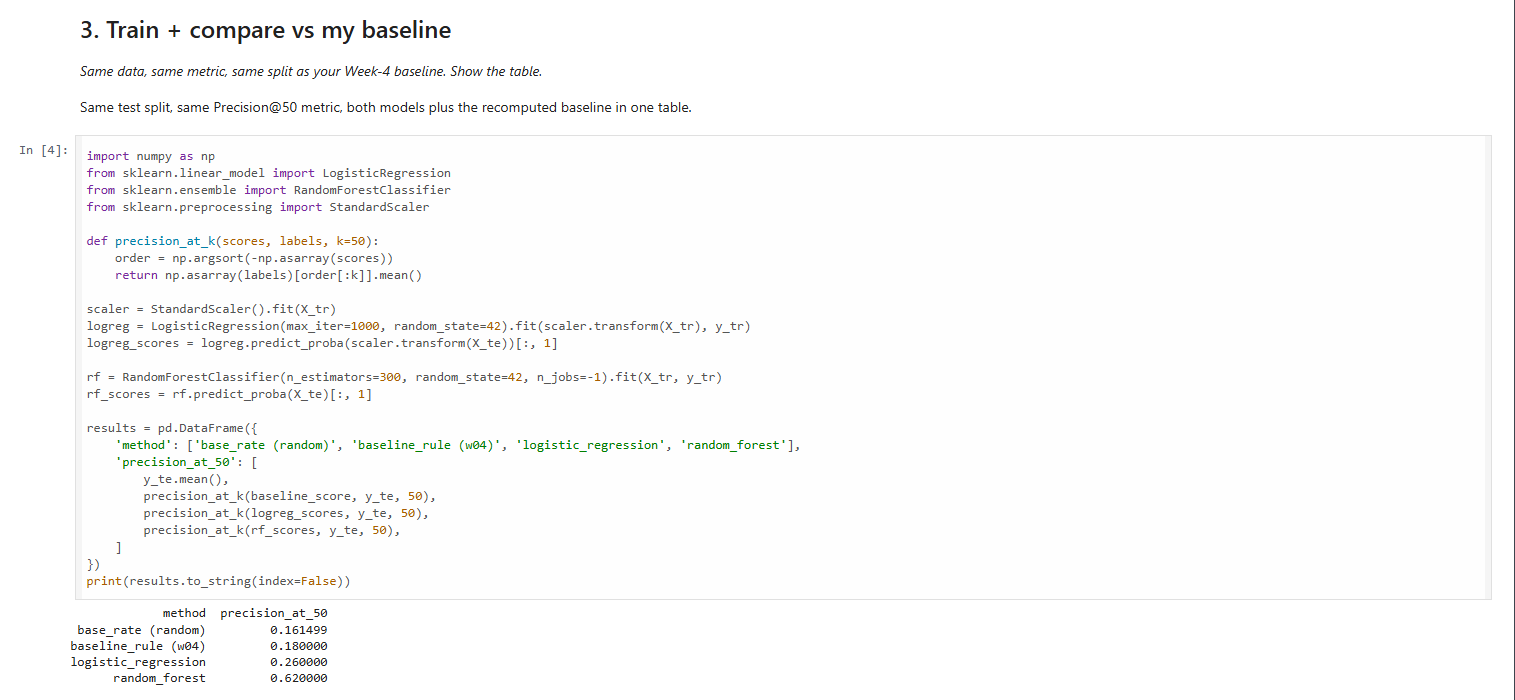
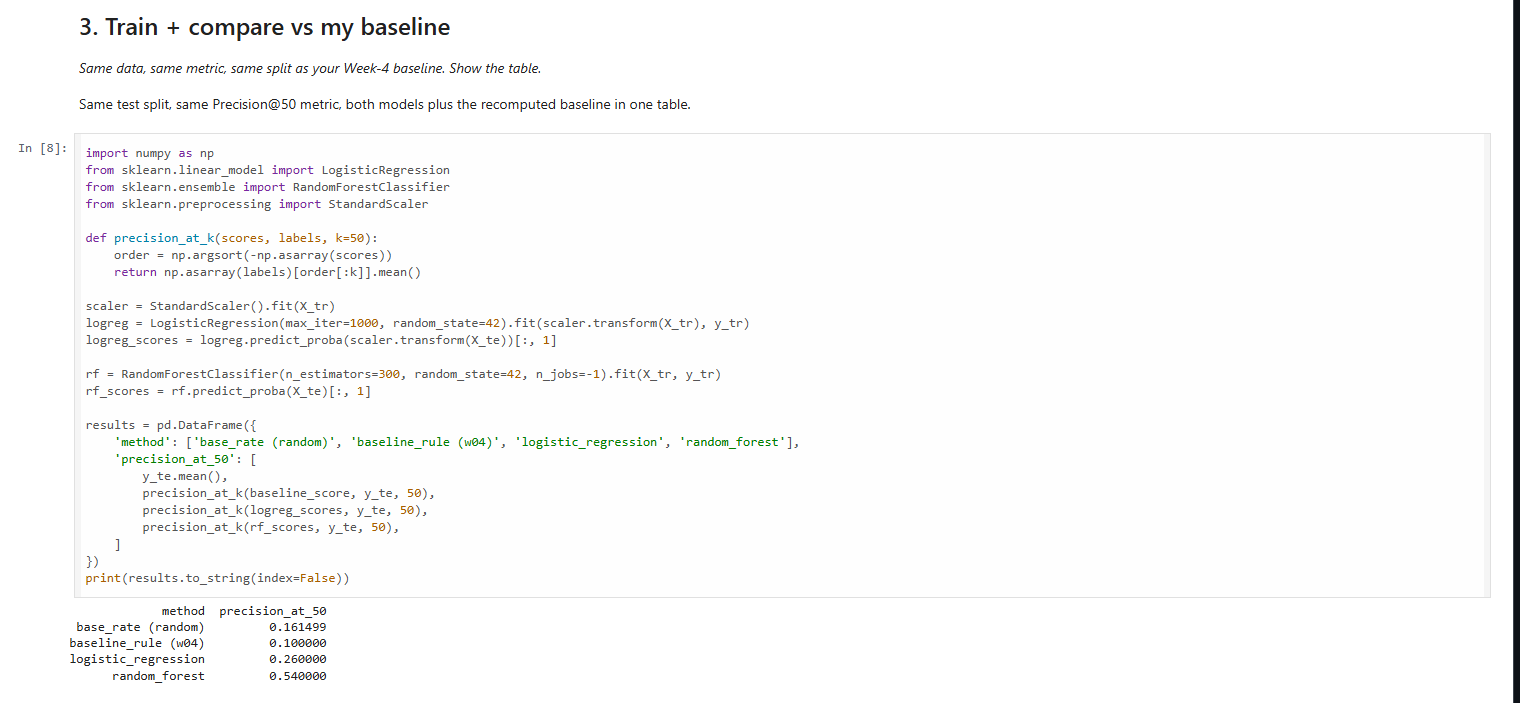
Re-capture the w05 receipt after the pin and ORDER BY fix
The committed screenshot showed 0.180 / 0.620 from a run predating both fixes,
while Case 1 reported 0.540. It now reads 0.161499 / 0.100000 / 0.260000 /
0.540000 - the case and its receipt agree.

diff --git a/work/images/contact-sheet.html b/work/images/contact-sheet.html
@@ -9,30 +9,30 @@ figcaption{font-size:11px;font-weight:600;letter-spacing:.12em;color:#5B6670;pad
 figure svg,figure img{display:block;width:100%;height:auto}
 </style>
 <h1>Image set — contact sheet</h1>
-<p class="sub">One real photo, two real captures (one stale, flagged), three figures, one generated hero texture, one rejected hero.</p>
+<p class="sub">One real photo, two real captures (both matching their cases), three figures, one generated hero texture, one rejected hero.</p>
 <figure data-name="headshot.jpg"><figcaption>REAL PHOTO · About</figcaption><img src="headshot.jpg" alt="REAL PHOTO · About" style="max-width:420px"></figure>
-<figure data-name="capture-w05-results.png"><figcaption>REAL CAPTURE · STALE — pre-pin run, must be re-captured</figcaption><img src="capture-w05-results.png" alt="REAL CAPTURE · STALE — pre-pin run, must be re-captured"></figure>
+<figure data-name="capture-w05-results.png"><figcaption>REAL CAPTURE · Case 1 receipt — matches the case (0.540)</figcaption><img src="capture-w05-results.png" alt="REAL CAPTURE · Case 1 receipt — matches the case (0.540)"></figure>
 <figure data-name="capture-w03-leakage.png"><figcaption>REAL CAPTURE · Case 2 receipt — matches the case</figcaption><img src="capture-w03-leakage.png" alt="REAL CAPTURE · Case 2 receipt — matches the case"></figure>
-<figure data-name="fig-queue-precision.svg"><figcaption>KEEPER · fig-queue-precision.svg</figcaption><svg xmlns="http://www.w3.org/2000/svg" viewBox="0 0 760 400" data-w="760" data-h="400" role="img" aria-label="Precision at 50 on one split: random forest 0.500, logistic regression 0.260, hand-written rule 0.200, random order 0.161. Unstable across seeds.">
-<title>Precision at 50 on one split: random forest 0.500, logistic regression 0.260, hand-written rule 0.200, random order 0.161. Unstable across seeds.</title>
+<figure data-name="fig-queue-precision.svg"><figcaption>KEEPER · fig-queue-precision.svg</figcaption><svg xmlns="http://www.w3.org/2000/svg" viewBox="0 0 760 400" data-w="760" data-h="400" role="img" aria-label="Precision at 50 on one split: random forest 0.540, logistic regression 0.260, hand-written rule 0.100, random order 0.161. Unstable across seeds.">
+<title>Precision at 50 on one split: random forest 0.540, logistic regression 0.260, hand-written rule 0.100, random order 0.161. Unstable across seeds.</title>
 <rect width="760" height="400" fill="#FBFAF7"/>
 <text x="32" y="44" font-family="'Space Grotesk','Inter',system-ui,-apple-system,'Segoe UI',sans-serif" font-size="21" font-weight="600" letter-spacing="-0.3" fill="#14161A">The number that prompted the audit</text>
-<text x="32" y="66" font-family="'Inter',system-ui,-apple-system,'Segoe UI',sans-serif" font-size="12.5" fill="#5B6670">Precision@50 · ONE split, seed 42 · not the result I stand behind</text>
+<text x="32" y="66" font-family="'Inter',system-ui,-apple-system,'Segoe UI',sans-serif" font-size="12.5" fill="#5B6670">Precision@50 · ONE split, seed 42, nine clients on the test side</text>
 <text x="198" y="138.0" text-anchor="end" font-family="'Inter',system-ui,-apple-system,'Segoe UI',sans-serif" font-size="13.5" font-weight="400" fill="#5B6670">Random order</text>
 <rect x="214" y="118" width="111.8" height="30" rx="4" fill="#2F4858"/>
 <text x="337.8" y="138.0" font-family="'Space Grotesk','Inter',system-ui,-apple-system,'Segoe UI',sans-serif" font-size="14.5" font-weight="600" fill="#14161A">0.161</text>
 <text x="198" y="188.0" text-anchor="end" font-family="'Inter',system-ui,-apple-system,'Segoe UI',sans-serif" font-size="13.5" font-weight="400" fill="#5B6670">Hand-written rule</text>
-<rect x="214" y="168" width="138.9" height="30" rx="4" fill="#2F4858"/>
-<text x="364.9" y="188.0" font-family="'Space Grotesk','Inter',system-ui,-apple-system,'Segoe UI',sans-serif" font-size="14.5" font-weight="600" fill="#14161A">0.200</text>
+<rect x="214" y="168" width="69.4" height="30" rx="4" fill="#2F4858"/>
+<text x="295.4" y="188.0" font-family="'Space Grotesk','Inter',system-ui,-apple-system,'Segoe UI',sans-serif" font-size="14.5" font-weight="600" fill="#14161A">0.100</text>
 <text x="198" y="238.0" text-anchor="end" font-family="'Inter',system-ui,-apple-system,'Segoe UI',sans-serif" font-size="13.5" font-weight="400" fill="#5B6670">Logistic regression</text>
 <rect x="214" y="218" width="180.5" height="30" rx="4" fill="#2F4858"/>
 <text x="406.5" y="238.0" font-family="'Space Grotesk','Inter',system-ui,-apple-system,'Segoe UI',sans-serif" font-size="14.5" font-weight="600" fill="#14161A">0.260</text>
 <text x="198" y="288.0" text-anchor="end" font-family="'Inter',system-ui,-apple-system,'Segoe UI',sans-serif" font-size="13.5" font-weight="600" fill="#14161A">Random forest</text>
-<rect x="214" y="268" width="347.1" height="30" rx="4" fill="#A8461F"/>
-<text x="573.1" y="288.0" font-family="'Space Grotesk','Inter',system-ui,-apple-system,'Segoe UI',sans-serif" font-size="14.5" font-weight="600" fill="#14161A">0.500</text>
+<rect x="214" y="268" width="374.9" height="30" rx="4" fill="#A8461F"/>
+<text x="600.9" y="288.0" font-family="'Space Grotesk','Inter',system-ui,-apple-system,'Segoe UI',sans-serif" font-size="14.5" font-weight="600" fill="#14161A">0.540</text>
 <line x1="214" y1="108" x2="214" y2="308" stroke="#E3E0D9" stroke-width="1"/>
 <line x1="32" y1="358" x2="728" y2="358" stroke="#E3E0D9" stroke-width="1"/>
-<text x="32" y="378" font-family="'Inter',system-ui,-apple-system,'Segoe UI',sans-serif" font-size="11" fill="#5B6670">Across seven seeds: 0.30-0.62. Headline is leave-one-client-out - 21 of 24 clients, 2.28x lift.</text>
+<text x="32" y="378" font-family="'Inter',system-ui,-apple-system,'Segoe UI',sans-serif" font-size="11" fill="#5B6670">Across seven seeds: 0.24-0.58, mean 0.49. Headline is LOCO - 21 of 24 clients, 2.31x lift.</text>
 </svg>
 </figure>
 <figure data-name="fig-leaky-vs-honest.svg"><figcaption>KEEPER · fig-leaky-vs-honest.svg</figcaption><svg xmlns="http://www.w3.org/2000/svg" viewBox="0 0 760 340" data-w="760" data-h="340" role="img" aria-label="Leaky AUC 1.000 versus honest AUC 0.486.">

diff --git a/work/image-set.md b/work/image-set.md
@@ -53,12 +53,11 @@ Both were captured from the notebooks as they render on GitHub, then cropped to 
 output — no browser chrome, no file tree, no scaling up. `capture-w03-leakage.png` reads
 `60,333 | 46,016`, honest `0.486`, leaky `1.000`, which matches Case 2 exactly.
 
-**`capture-w05-results.png` is currently a stale receipt and must be re-captured.** It shows
-`0.180 / 0.620` — the pre-pin run, taken before `MAX(report_date)` was replaced with a hardcoded
-`2026-03-31`. Case 1 now reports the post-pin figures (`0.200 / 0.500`) and leads with LOCO. Until
-`w05_model` is re-run under the pinned window and re-captured, this image contradicts the case it
-is supposed to evidence. A receipt that disagrees with the write-up is worse than no receipt: it
-looks like the write-up was tuned after the fact. Re-run, re-capture, replace.
+`capture-w05-results.png` reads `0.161499 / 0.100000 / 0.260000 / 0.540000`, which is Case 1's
+single-split table exactly. It was re-captured after the window pin and the `ORDER BY` fix — the
+earlier version showed `0.180 / 0.620` from a run that predated both, and a receipt that disagrees
+with the write-up is worse than no receipt, because it reads as the write-up being tuned after the
+fact. Both receipts now match their cases.
 
 **Item 7 is a real photo of me.** A generated portrait on an About page is the one lie that
 invalidates everything around it — if the face is fake, a reader is entitled to assume the metrics
